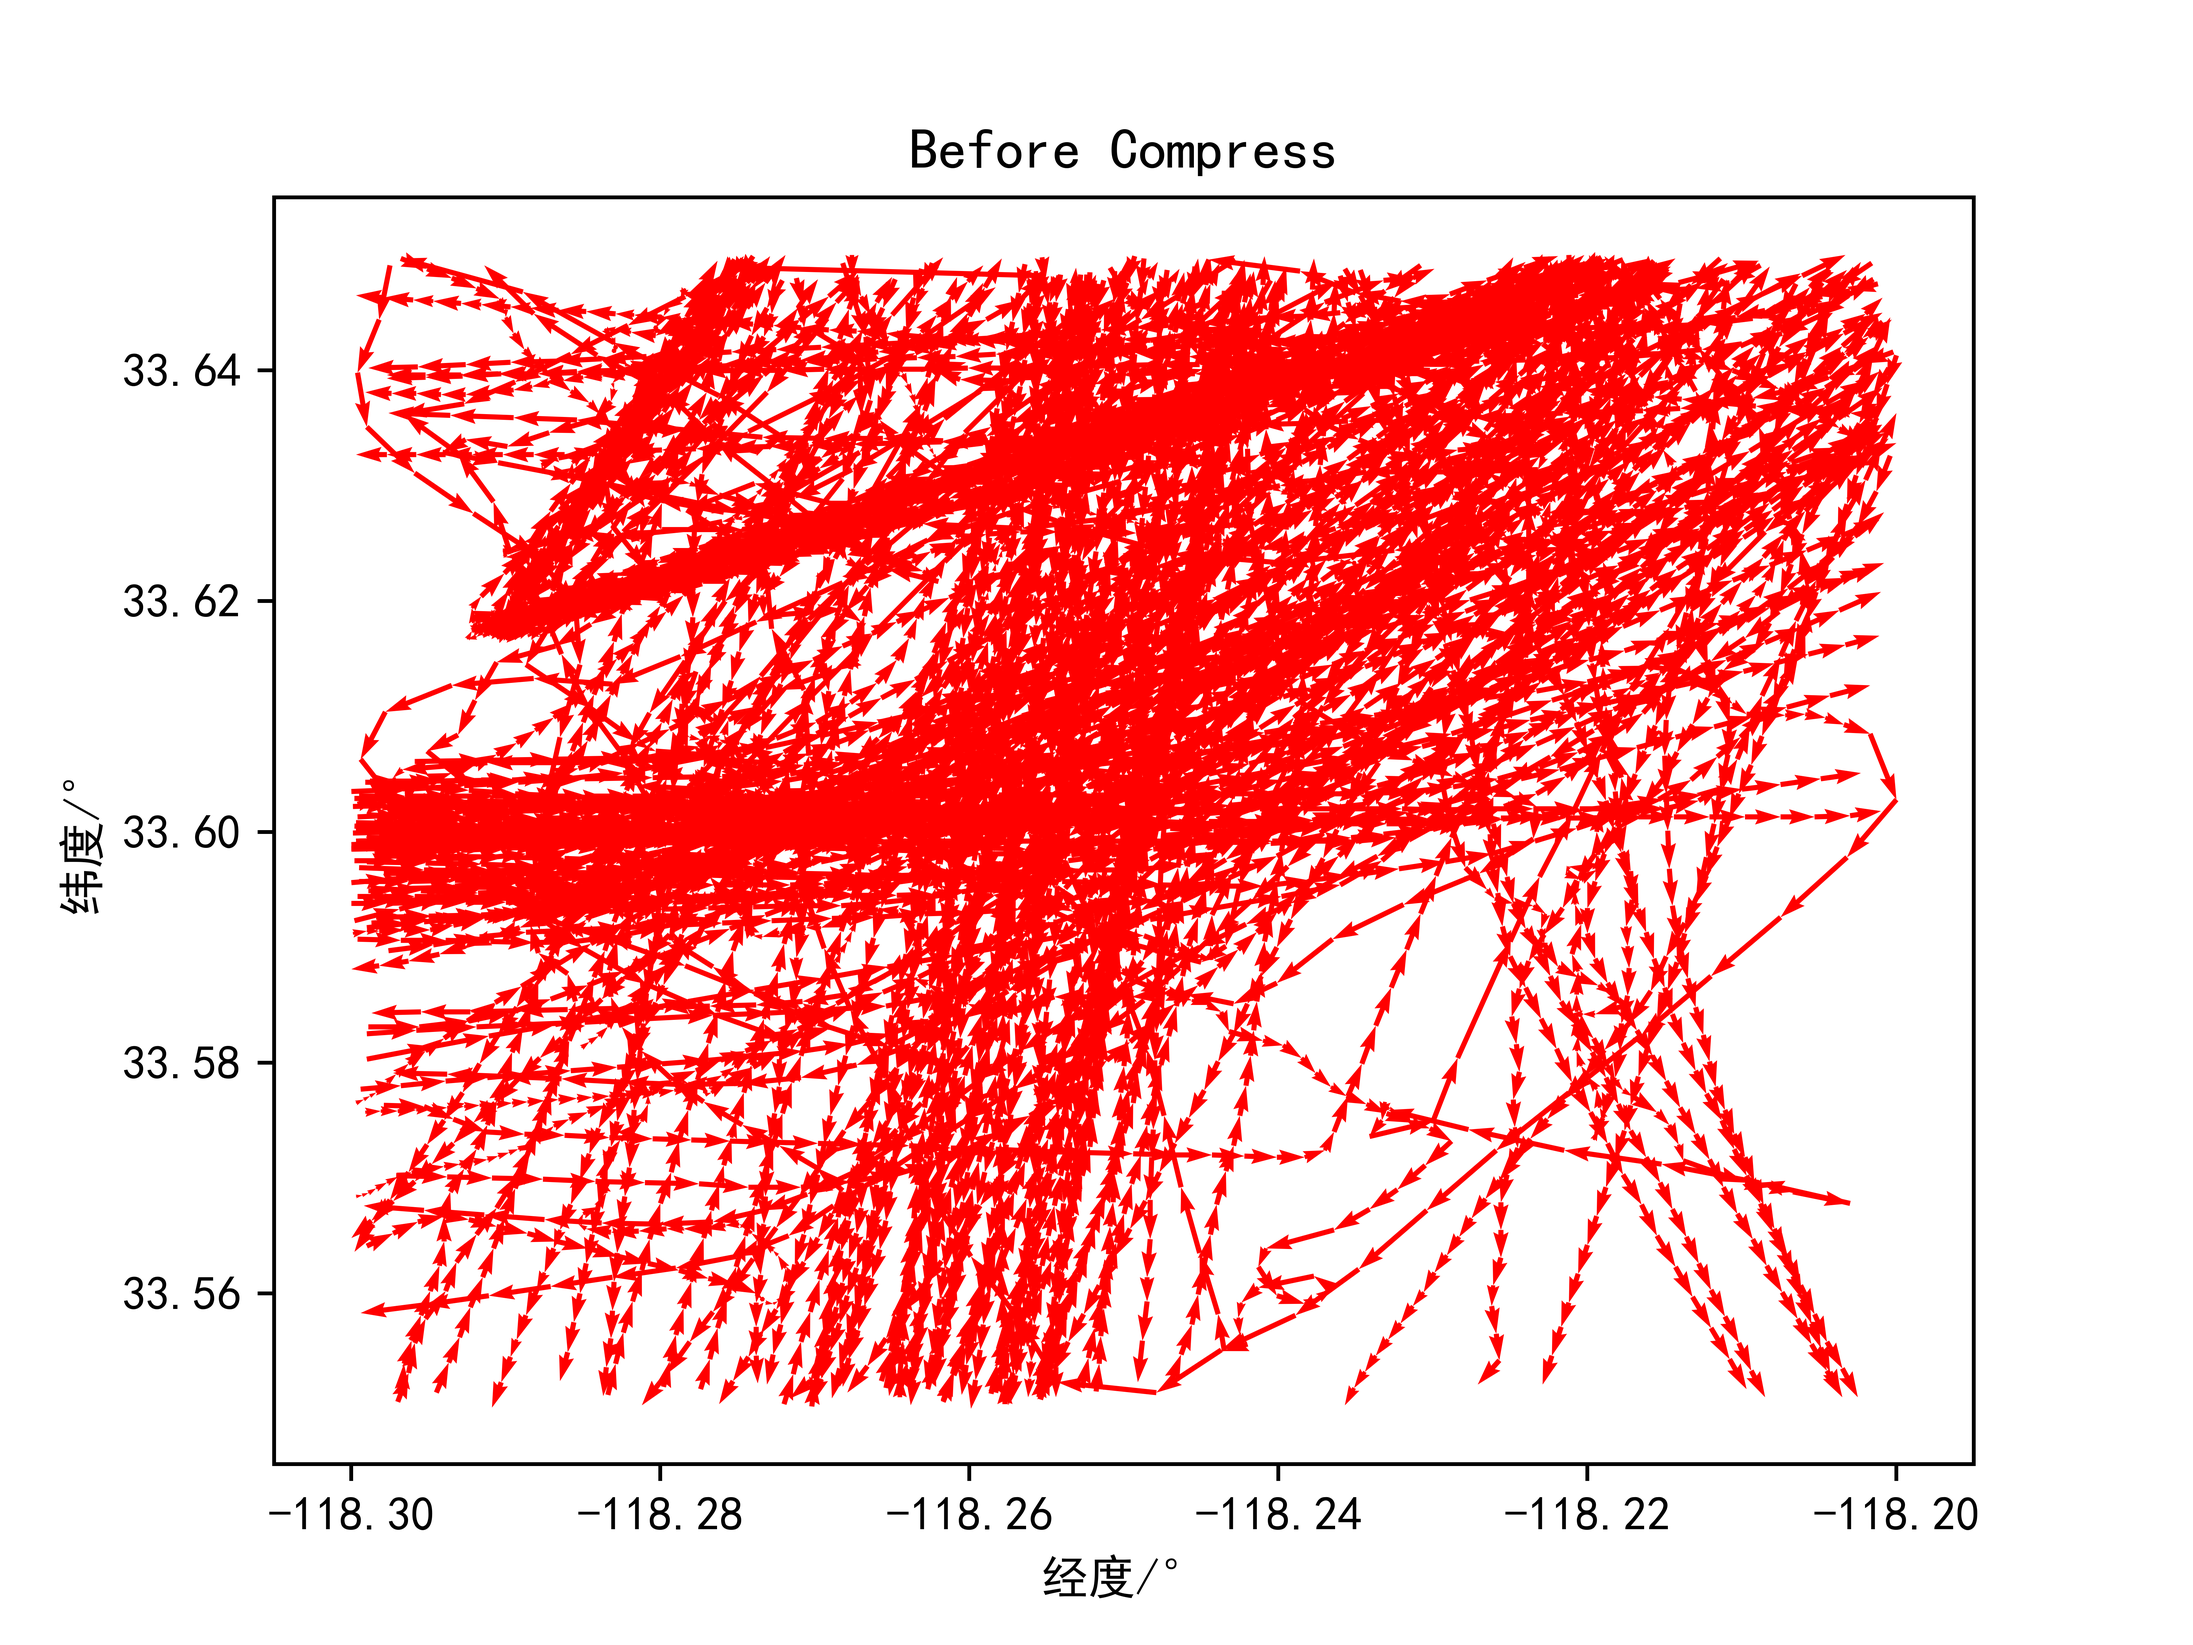
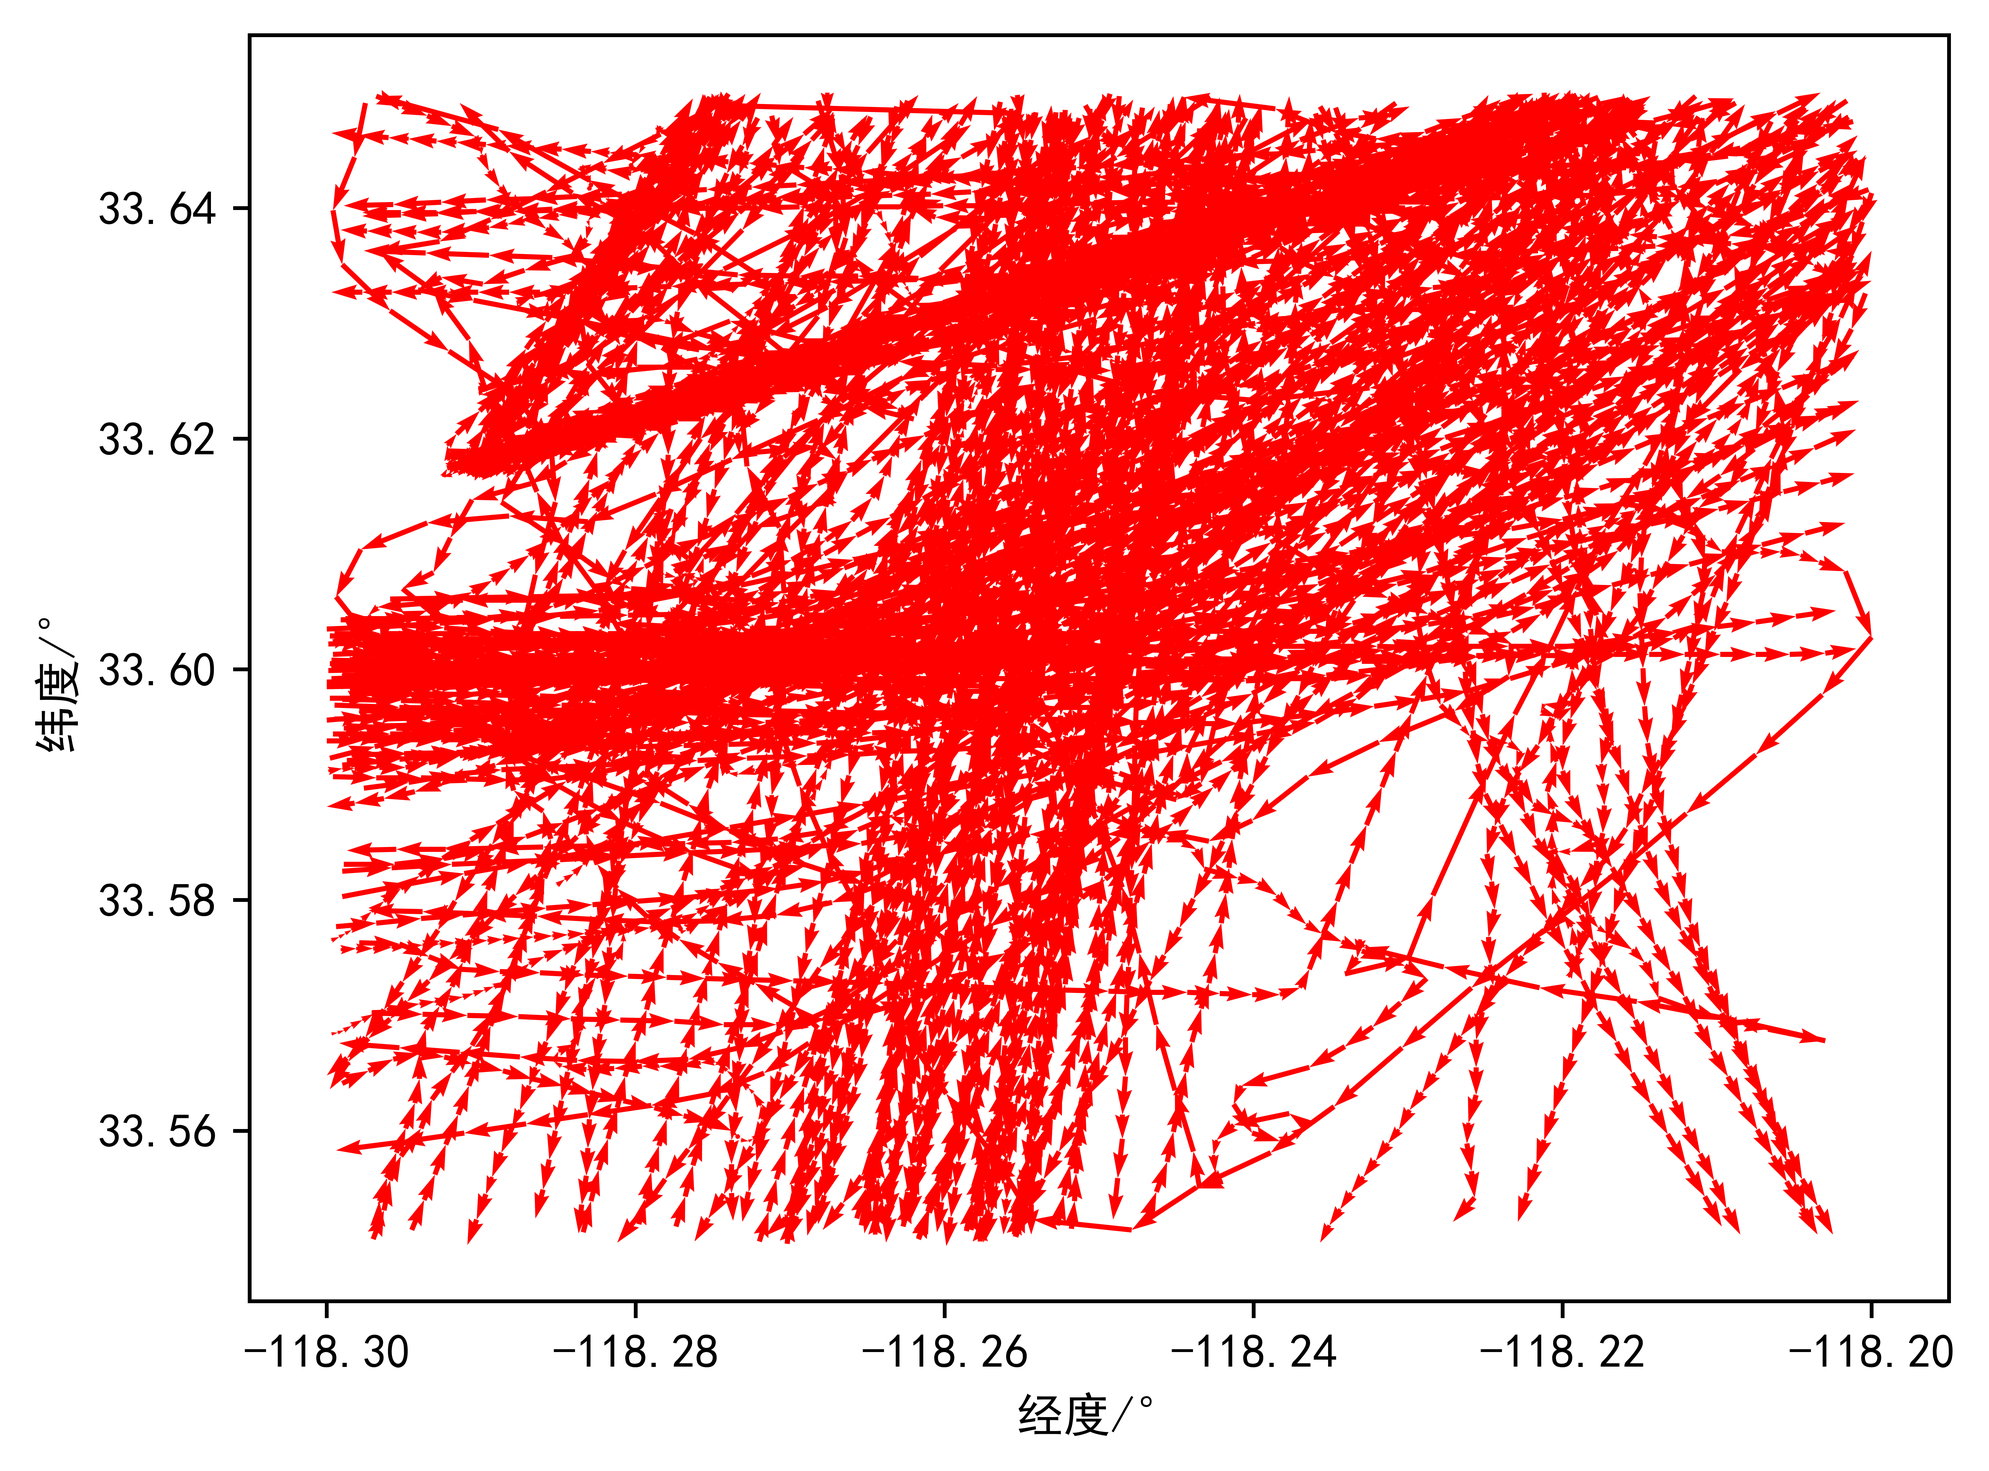
所有实验均完成（包括豪斯多夫实验）

diff --git a/TrajectoryCluster/cluster.py b/TrajectoryCluster/cluster.py
@@ -7,15 +7,16 @@ from TrajectoryCluster.trajectory import Trajectory
 import datetime
 import matplotlib.pyplot as plt
 import pandas as pd
-from TrajectoryCluster.dtw import DTW, DTWSpatialDis,DTWCompare,DTW1,DTWSpatialDisCOM
+from TrajectoryCluster.dtw import DTW, DTWSpatialDis, DTWCompare, DTW1, DTWSpatialDisCOM
 import numpy as np
 from sklearn.cluster import DBSCAN
 from sklearn.metrics import silhouette_score, calinski_harabasz_score, davies_bouldin_score  # 计算 轮廓系数，CH 指标，DBI
 from TrajectoryCluster.myHausdorff import hausdorff
-#如遇中文显示问题可加入以下代码
+# 如遇中文显示问题可加入以下代码
 from pylab import mpl
-mpl.rcParams['font.sans-serif'] = ['SimHei'] # 指定默认字体
-mpl.rcParams['axes.unicode_minus'] = False # 解决保存图像是负号'-'显示为方块的问题
+
+mpl.rcParams['font.sans-serif'] = ['SimHei']  # 指定默认字体
+mpl.rcParams['axes.unicode_minus'] = False  # 解决保存图像是负号'-'显示为方块的问题
 
 engine = create_engine("mysql+pymysql://root:123456@localhost:3306/ais?charset=utf8")
 # 创建session
@@ -46,7 +47,7 @@ session.close()
 MMSI = datas[0].MMSI
 vesselType = datas[0].VesselType
 trajectories = []
-trajectory = Trajectory(MMSI,vesselType)
+trajectory = Trajectory(MMSI, vesselType)
 for data in datas:
     if data.MMSI == MMSI:
         if trajectory.getLength() == 0 or \
@@ -57,7 +58,7 @@ for data in datas:
         trajectories.append(trajectory)
     MMSI = data.MMSI
     vesselType = data.VesselType
-    trajectory = Trajectory(MMSI,vesselType)
+    trajectory = Trajectory(MMSI, vesselType)
     trajectory.add_point(data)
 print("共有轨迹条数：", len(trajectories))
 
@@ -79,8 +80,8 @@ def drawTrajectory(title):
                   color='r', linestyle='-', width=0.003)
     plt.xlabel('经度/°')
     plt.ylabel('纬度/°')
-    plt.title(title)
-    plt.savefig(title, dpi=1080)
+    # plt.title(title)
+    plt.savefig(title, dpi=1080, bbox_inches='tight')
     plt.show()
 
 
@@ -97,7 +98,7 @@ print("压缩前共有AIS点：", aisNumBefore)
 compressError = []
 for trajectory in trajectories:
     trajectory.compress(trajectory.points[0], trajectory.points[trajectory.count - 1])
-    trajectory.deleteCircle()
+    # trajectory.deleteCircle()
     compressError.append(trajectory.error / trajectory.deleteNum)
 print("压缩平均误差：", sum(compressError) / len(compressError))
 df = pd.DataFrame(compressError)
@@ -134,11 +135,11 @@ for i in range(len(trajectories)):
         traDistanceSpa.append(0)
     for j in range(i + 1, len(trajectories)):
         # 本文实验
-        # traDistance.append(DTW(trajectories[i].points, trajectories[j].points))
+        traDistance.append(DTW(trajectories[i].points, trajectories[j].points))
         # 混合距离实验
         # traDistance.append(DTWSpatialDisCOM(trajectories[i].points, trajectories[j].points))
         # 豪斯多夫距离对比试验
-        traDistance.append(hausdorff(trajectories[i].points, trajectories[j].points))
+        # traDistance.append(hausdorff(trajectories[i].points, trajectories[j].points))
         # 计算SC得分需要的度量距离
         traDistanceSpa.append(DTWSpatialDis(trajectories[i].points, trajectories[j].points))
         countNum = countNum + len(trajectories[i].points) * len(trajectories[j].points)
@@ -151,9 +152,7 @@ traDistancesSpa += traDistancesSpa.T - np.diag(traDistancesSpa.diagonal())
 
 print("计算DTW距离时比较次数：" + str(countNum))
 
-
-
-#=========================测试聚类时参数===================
+# =========================测试聚类时参数===================
 # res = []
 # for eps in np.arange(0.001, 0.02, 0.0002):
 #     for min_samples in range(2, 10):
@@ -193,21 +192,18 @@ print("计算DTW距离时比较次数：" + str(countNum))
 # df = pd.DataFrame(res)
 
 
-
-
-
 # =============================使用DBSCAN开始聚类=================================================
 # 豪斯多夫距离对比试验
 
-
-eps = 0.0122
-min_samples = 5
+# 豪斯多夫聚类参数
+# eps = 0.0122
+# min_samples = 5
 # 混合距离对比试验参数
 # eps = 0.17
 # min_samples = 6
 # 真实实验参数
-# eps = 0.27
-# min_samples = 5
+eps = 0.27
+min_samples = 5
 dbscan = DBSCAN(min_samples=min_samples, eps=eps, leaf_size=1000, metric='precomputed')
 label = dbscan.fit(np.array(traDistances)).labels_
 # 评价聚类的效果
@@ -243,15 +239,13 @@ for i in range(len(stats)):
 for i in range(len(trajectories)):
     trajectories[i].label = label[i]
 
-
 # ===================展示不同label船舶的vesselType===================
 for i in range(n_clusters):
-    print("label",i,"的船舶type:")
+    print("label", i, "的船舶type:")
     for trajectory in trajectories:
         if trajectory.label == i:
-            print(trajectory.vesselType,end=",")
+            print(trajectory.vesselType, end=",")
     print()
-
 
 # ===========================================绘图聚类效果===============================
 colors_dict = {-1: 'red', 0: 'green', 1: 'blue', 2: 'cyan', 3: 'purple', 4: 'magenta', 5: 'darksalmon', 6: 'gray',
@@ -260,10 +254,11 @@ fig = plt.figure()
 a1 = fig.add_subplot(111)
 colorLegend = []
 colorIndex = 1
-# a1.set_ylim(bottom=33.55)
-# a1.set_ylim(top=33.65)
-# a1.set_xlim(left=-118.30)
-# a1.set_xlim(right=-118.20)
+a1 = fig.add_subplot(111)
+a1.set_ylim(bottom=33.55)
+a1.set_ylim(top=33.65)
+a1.set_xlim(left=-118.30)
+a1.set_xlim(right=-118.20)
 for trajectory in trajectories:
     dx = []
     dy = []
@@ -275,7 +270,7 @@ for trajectory in trajectories:
         dy.append(point.LAT)
     dx = np.array(dx)
     dy = np.array(dy)
-    # a1.plot(dx, dy, color=, linestyle='-')
+    a1.plot(dx, dy, color=colorLabel, linestyle='-')
     if colorLegend.__contains__(trajectory.label):
         a1.quiver(dx[:-1], dy[:-1], dx[1:] - dx[:-1], dy[1:] - dy[:-1], scale_units='xy', angles='xy', scale=1,
                   color=colorLabel, linestyle='-', width=0.003)
@@ -288,8 +283,40 @@ for trajectory in trajectories:
     plt.plot()
 plt.xlabel('经度/°')
 plt.ylabel('纬度/°')
-plt.title("cluster result")
-# plt.savefig("cluster results", dpi=1080)
+plt.title("label")
+plt.savefig("cluster results", dpi=1080, bbox_inches='tight')
 plt.show()
+
+
+# 分别展示不同label的航迹
+# for aaa in range(len(colorLegend)):
+#     fig = plt.figure()
+#     a1 = fig.add_subplot(111)
+#     a1.set_ylim(bottom=33.55)
+#     a1.set_ylim(top=33.65)
+#     a1.set_xlim(left=-118.30)
+#     a1.set_xlim(right=-118.20)
+#     for trajectory in trajectories:
+#         dx = []
+#         dy = []
+#         colorLabel = colors_dict[trajectory.label]
+#         if aaa != trajectory.label:
+#             continue
+#         for point in trajectory.points:
+#             dx.append(point.LON)
+#             dy.append(point.LAT)
+#         dx = np.array(dx)
+#         dy = np.array(dy)
+#         # a1.plot(dx, dy, color=, linestyle='-')
+#         if colorLegend.__contains__(trajectory.label):
+#             a1.quiver(dx[:-1], dy[:-1], dx[1:] - dx[:-1], dy[1:] - dy[:-1], scale_units='xy', angles='xy', scale=1,
+#                       color=colorLabel, linestyle='-', width=0.003)
+#         plt.plot()
+#     plt.xlabel('经度/°')
+#     plt.ylabel('纬度/°')
+#     plt.title("label"+str(aaa+1))
+#     plt.savefig("cluster results"+str(aaa), dpi=1080, bbox_inches='tight')
+#     print("label"+str(aaa)+"绘图完成。。。。。")
+#     # plt.show()
 
 print("结束！")

diff --git a/TrajectoryCluster/TsetD-P.py b/TrajectoryCluster/TsetD-P.py
@@ -1,0 +1,75 @@
+from geog import distance
+import pandas as pd
+from matplotlib import pyplot as plt
+import numpy as np
+
+
+class Douglas_Peuker:
+    "Douglas–Peucker algorithm压缩轨迹"
+
+    def __init__(self, traj, dMax=1.5):
+
+        print('原始轨迹长度：', len(traj))
+        plt.figure()  # 画图
+        plt.subplot(1, 2, 1)  # 画图
+        plt.plot(np.array(traj)[:, 0], np.array(traj)[:, 1], 'r-')
+        plt.title('init_traj')
+        traj = [[i, x[0], x[1]] for i, x in enumerate(traj)]
+        douglasPecker_traj = self.douglasPecker(traj, dMax)
+        print('压缩后轨迹长度：', len(douglasPecker_traj))
+        plt.subplot(1, 2, 2)  # 画图
+        plt.plot(np.array(douglasPecker_traj)[:, 0], np.array(douglasPecker_traj)[:, 1], 'b-')
+        plt.title('douglasPecker_traj')
+        plt.show()
+        plt.close()
+
+    def douglasPecker(self, coordinate, dMax):
+        """
+
+        :param coordinate: 原始轨迹
+        :param dMax: 允许最大距离误差
+        :return: douglasResult 抽稀后的轨迹
+        """
+        result = self.compressLine(coordinate, [], 0, len(coordinate) - 1, dMax)
+        result.append(coordinate[0])
+        result.append(coordinate[-1])
+        result = pd.DataFrame(result, columns=['myIndex', 'lat', 'lng'])
+        result.sort_values(by=['myIndex'], inplace=True)
+        result.reset_index(drop=True, inplace=True)
+        return result.loc[:, ['lat', 'lng']].values.tolist()
+
+    def compressLine(self, coordinate, result, start, end, dMax):
+        "递归方式压缩轨迹"
+        if start < end:
+            maxDist = 0
+            currentIndex = 0
+            startPoint = coordinate[start][1:]
+            endPoint = coordinate[end][1:]
+            for i in range(start + 1, end):
+                currentDist = self.disToSegment(startPoint, endPoint, coordinate[i][1:])
+                if currentDist > maxDist:
+                    maxDist = currentDist
+                    currentIndex = i
+            if maxDist >= dMax:
+                # 将当前点加入到过滤数组中
+                result.append(coordinate[currentIndex])
+                # 将原来的线段以当前点为中心拆成两段，分别进行递归处理
+                self.compressLine(coordinate, result, start, currentIndex, dMax)
+                self.compressLine(coordinate, result, currentIndex, end, dMax)
+        return result
+
+    def disToSegment(self, start, end, center):
+        "计算垂距，用海伦公式计算面积"
+        a = distance(start, end)
+        b = distance(start, center)
+        c = distance(end, center)
+        p = (a + b + c) / 2
+        s = np.sqrt(abs(p * (p - a) * (p - b) * (p - c)))
+        return s * 2 / a
+
+
+traj = [[0,1],[1,1.5],[2,0.5],[3,1],[4,1.2],[5,0.8],[6,3],[5,1],[6,0],[7,-1],[8,-2],[9,-3]]
+
+if __name__ == '__main__':
+    "traj是一个二维数组格式的经纬度列表,lng在前，lat在后"
+    Douglas_Peuker(traj, dMax=5)

diff --git a/zhaojincheng/Test1.py b/zhaojincheng/Test1.py
@@ -1,0 +1,38 @@
+for hang in range(1,10):
+    # print("第"+str(hang)+"行")
+    for lie in range(1,hang+1):
+        # print("第"+str(lie),end="列,")
+        multiply = hang*lie
+        print(str(lie)+"*"+str(hang)+"="+str(multiply),end=" ")
+    if hang != 9:
+        print()
+
+print("===============")
+nums = []
+nums.append("昆山")
+nums.append("赵瑾程")
+nums.append("国际学校")
+print(nums)
+
+# for i in range(0,len(nums)):
+#     print(nums[i]+"你好")
+
+for xuexiao in nums:
+    print(xuexiao + "你好")
+
+print("=====================")
+
+hello = "vga"
+print(len(hello))
+
+print("============")
+dic = {}
+dic['小明'] = 89
+dic['赵瑾程'] = 99
+dic['皮孩子'] = 59
+dic['小白'] = 67
+for i in dic:
+    print(i+"得了"+str(dic[i])+"分")
+
+print("我们现在要做个算法题了")
+a = input("请输入2进制数字a:")
